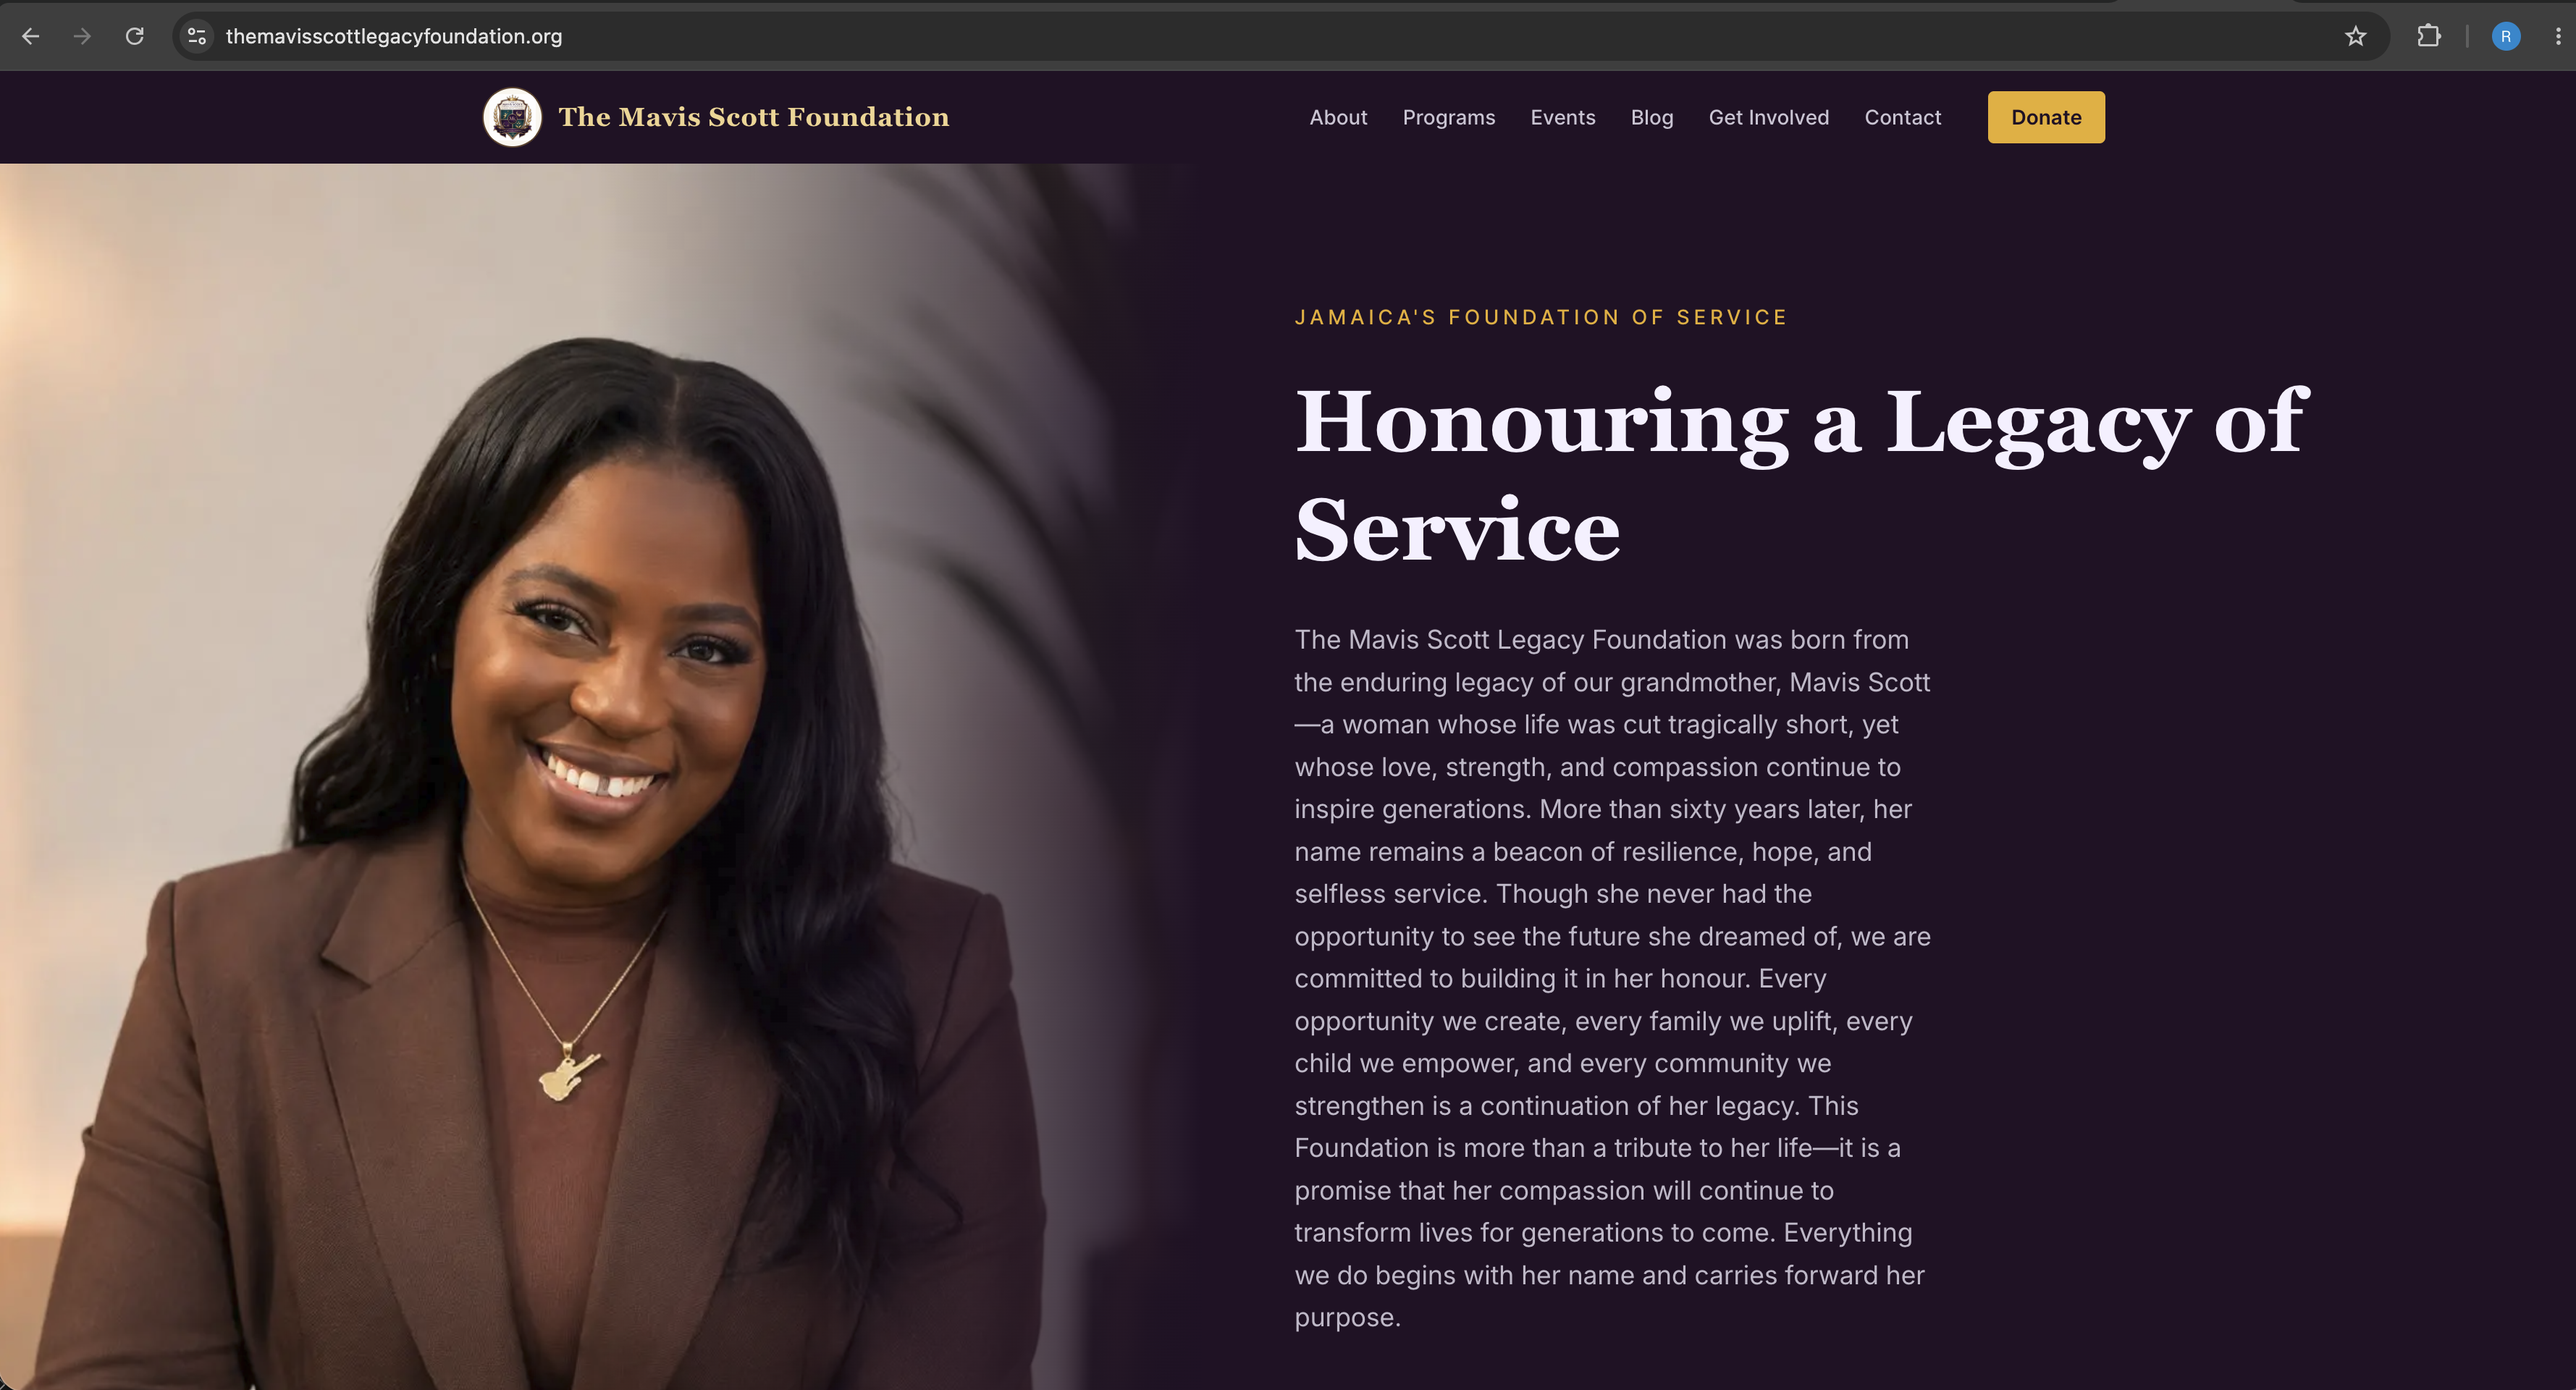
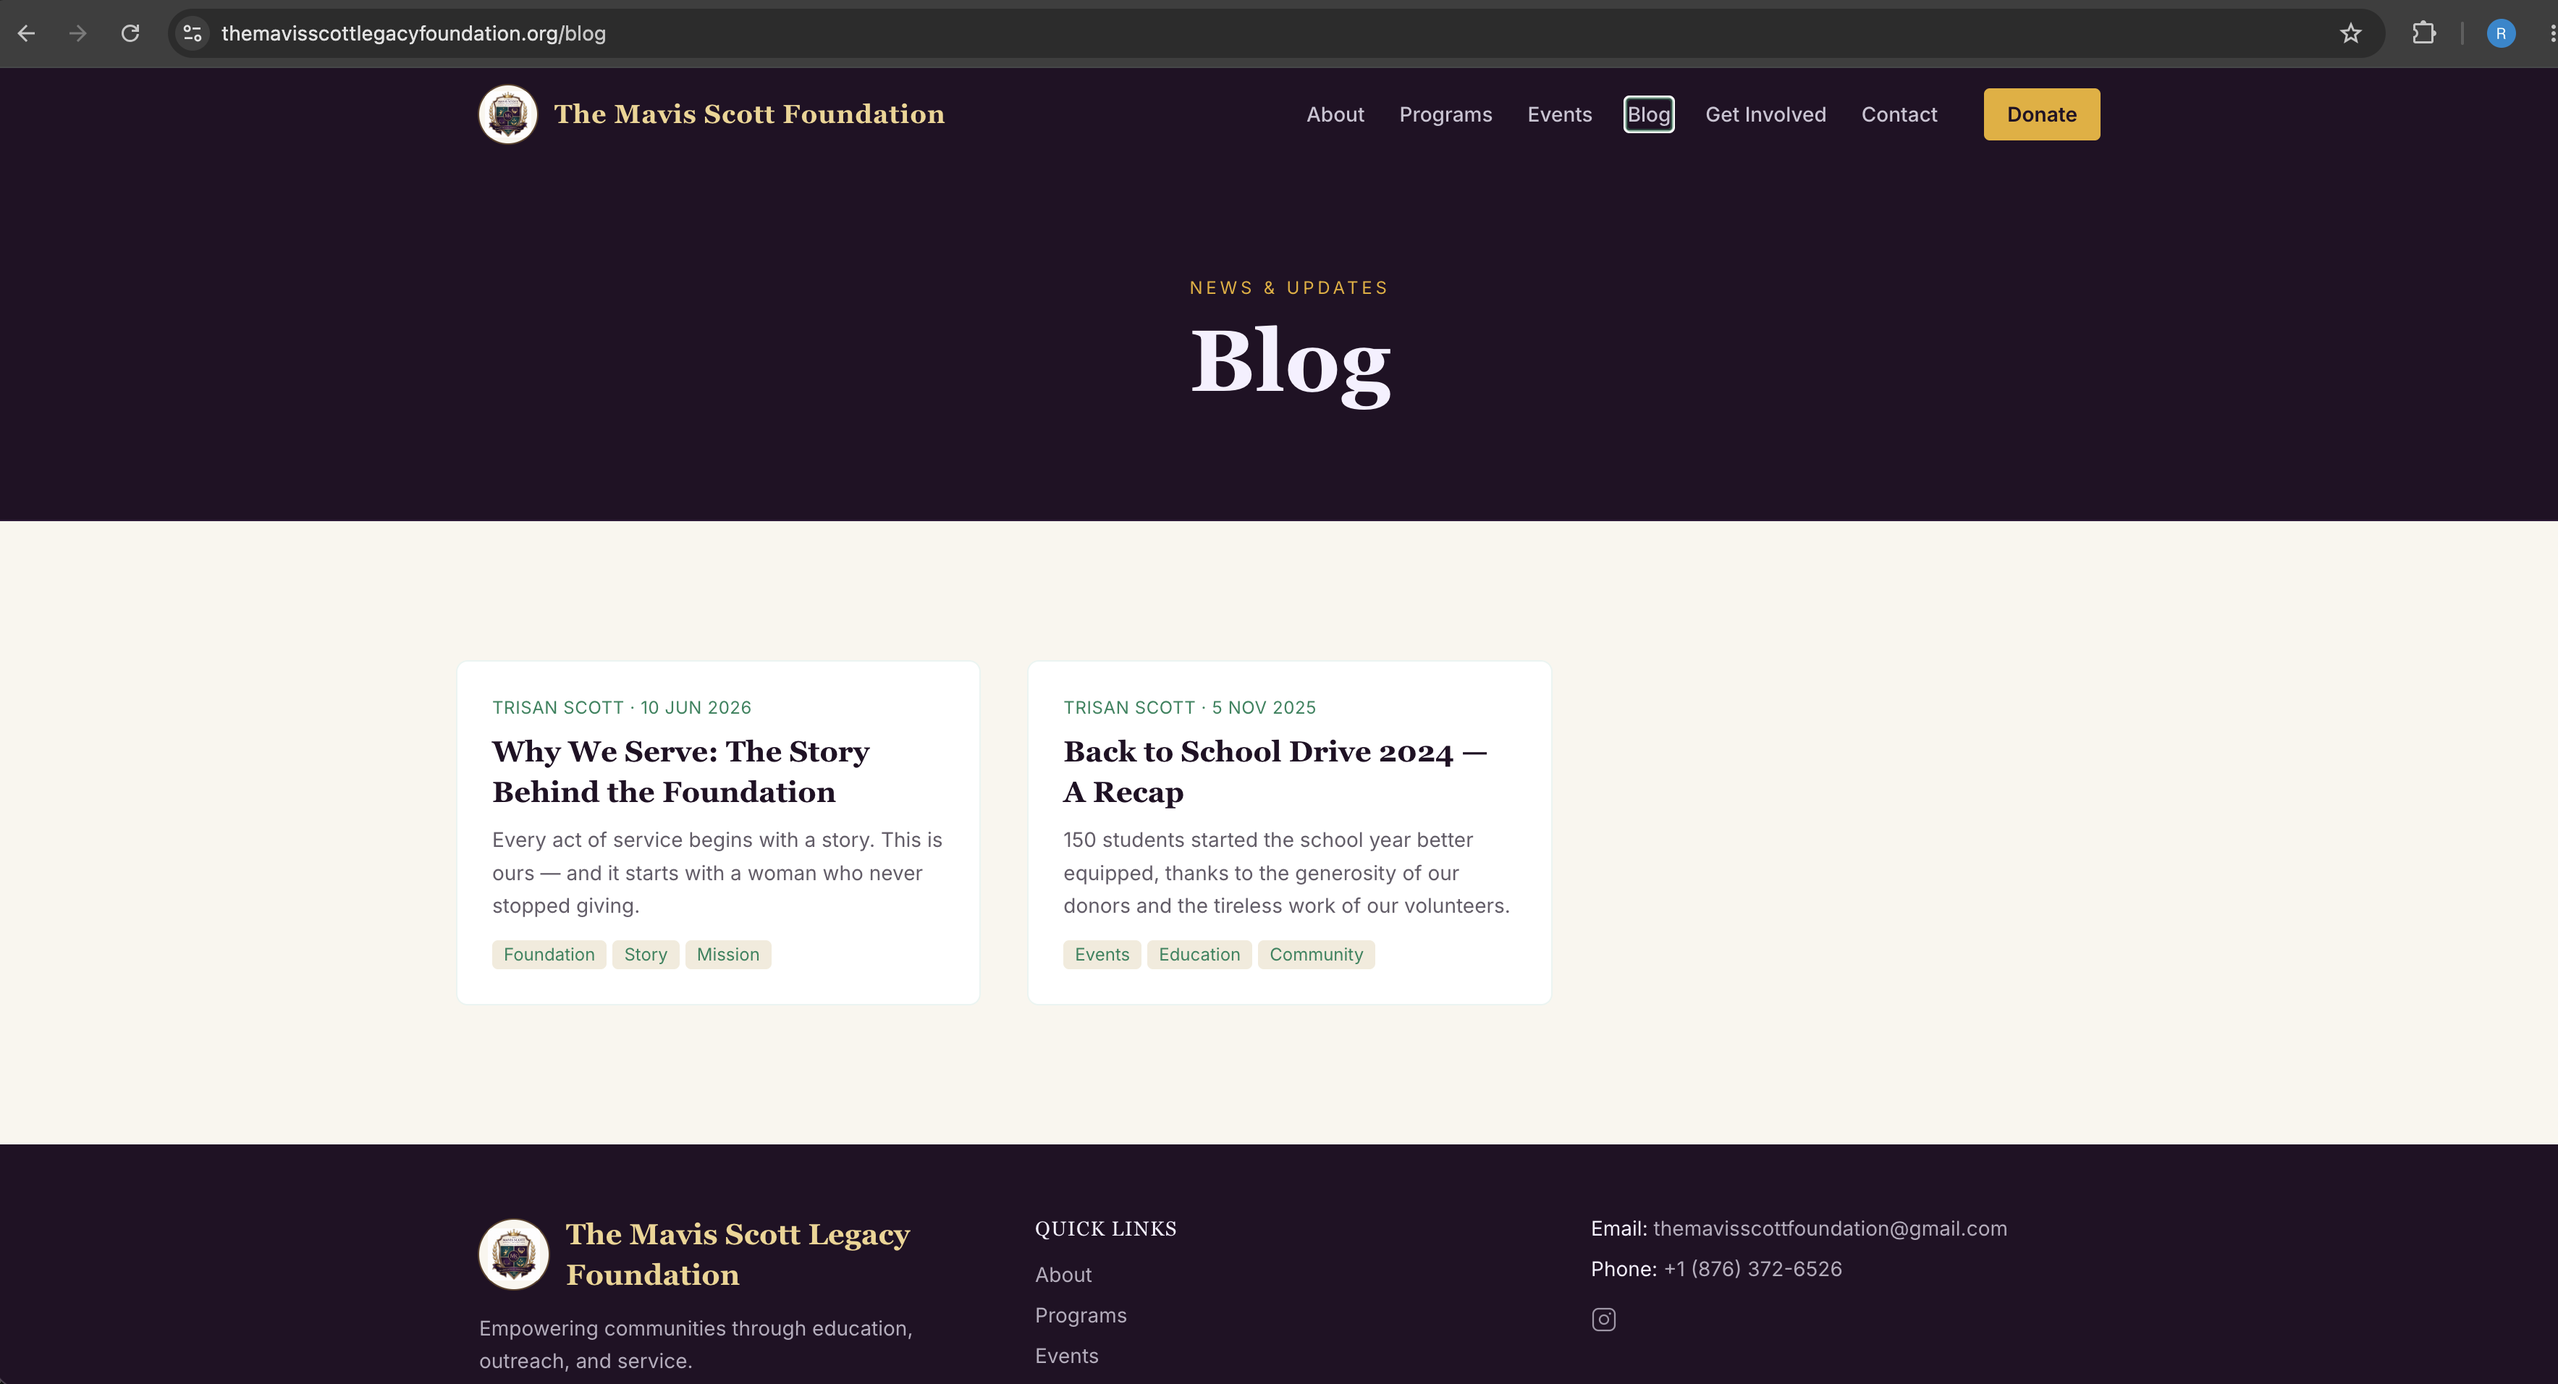
Fixed the numbering on the screenshots

diff --git a/src/data/projects.js b/src/data/projects.js
@@ -198,7 +198,7 @@ export const projects = [
     role: "Fullstack Developer",
     status: "live",
     featured: true,
-    github: "",
+    github: "https://github.com/Antonio313/Rasta-Collections",
     live: "https://rastacollections.store",
     metrics: [
       "Password-protected CMS with full product & category management",
@@ -241,7 +241,7 @@ export const projects = [
     role: "Fullstack Developer",
     status: "live",
     featured: true,
-    github: "https://github.com/Antonio313",
+    github: "https://github.com/Antonio313/Reufolio-Redesigned",
     live: "https://reufolio.online",
     metrics: [
       "Session-gated intro video overlay with YouTube embed",
@@ -275,7 +275,7 @@ export const projects = [
     role: "Lead Frontend Developer",
     status: "academic",
     featured: true,
-    github: "", // Add your ByteGrade repo URL here
+    github: "https://github.com/Antonio313/ByteGrade", 
     live: "",
     metrics: [
       "BSc Final Year Project — UTech 2025",
@@ -388,9 +388,6 @@ export const projects = [
       { src: "/projects/mavis-scott-foundation/screenshot-4.png", alt: "The Mavis Scott Foundation - Screenshot 4" },
       { src: "/projects/mavis-scott-foundation/screenshot-5.png", alt: "The Mavis Scott Foundation - Screenshot 5" },
       { src: "/projects/mavis-scott-foundation/screenshot-6.png", alt: "The Mavis Scott Foundation - Screenshot 6" },
-      { src: "/projects/mavis-scott-foundation/screenshot-7.png", alt: "The Mavis Scott Foundation - Screenshot 7" },
-      { src: "/projects/mavis-scott-foundation/screenshot-8.png", alt: "The Mavis Scott Foundation - Screenshot 8" },
-      { src: "/projects/mavis-scott-foundation/screenshot-9.png", alt: "The Mavis Scott Foundation - Screenshot 9" }
     ],
     blogContent: [
       "The Mavis Scott Foundation came to me needing more than a website — they needed a way to carry a legacy forward. The Foundation is built around Mavis Scott's history of community outreach, empowerment, education, and acts of service, and the site had to reflect that with the same dignity it's carried offline: real weight given to her story, not a generic charity template with a donate button bolted on.",
